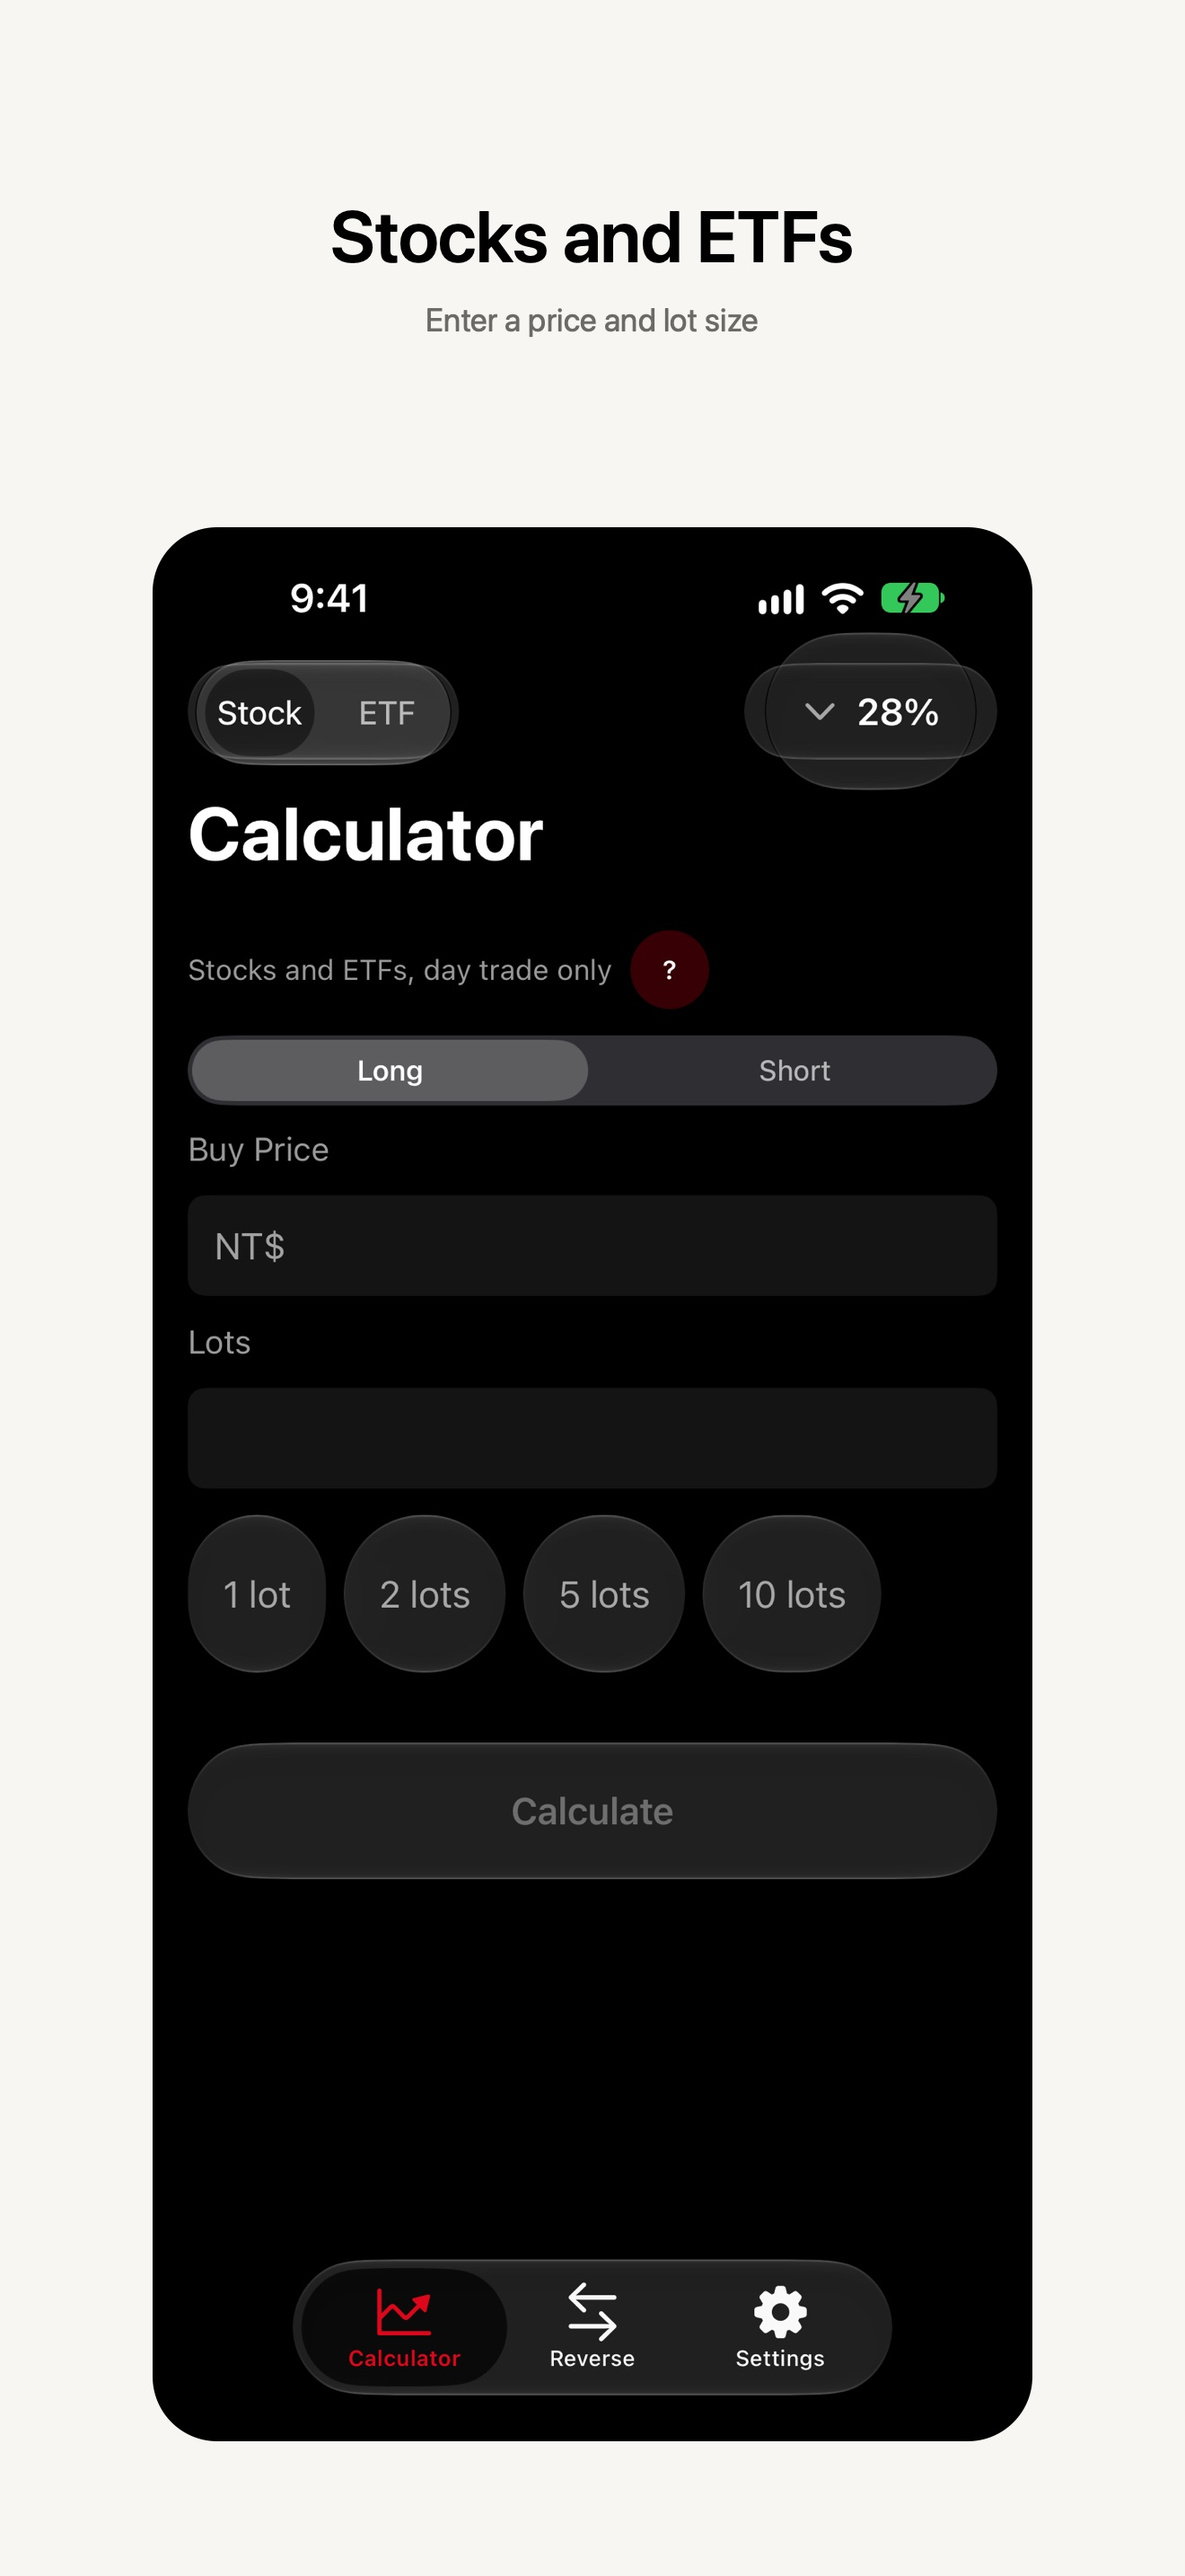
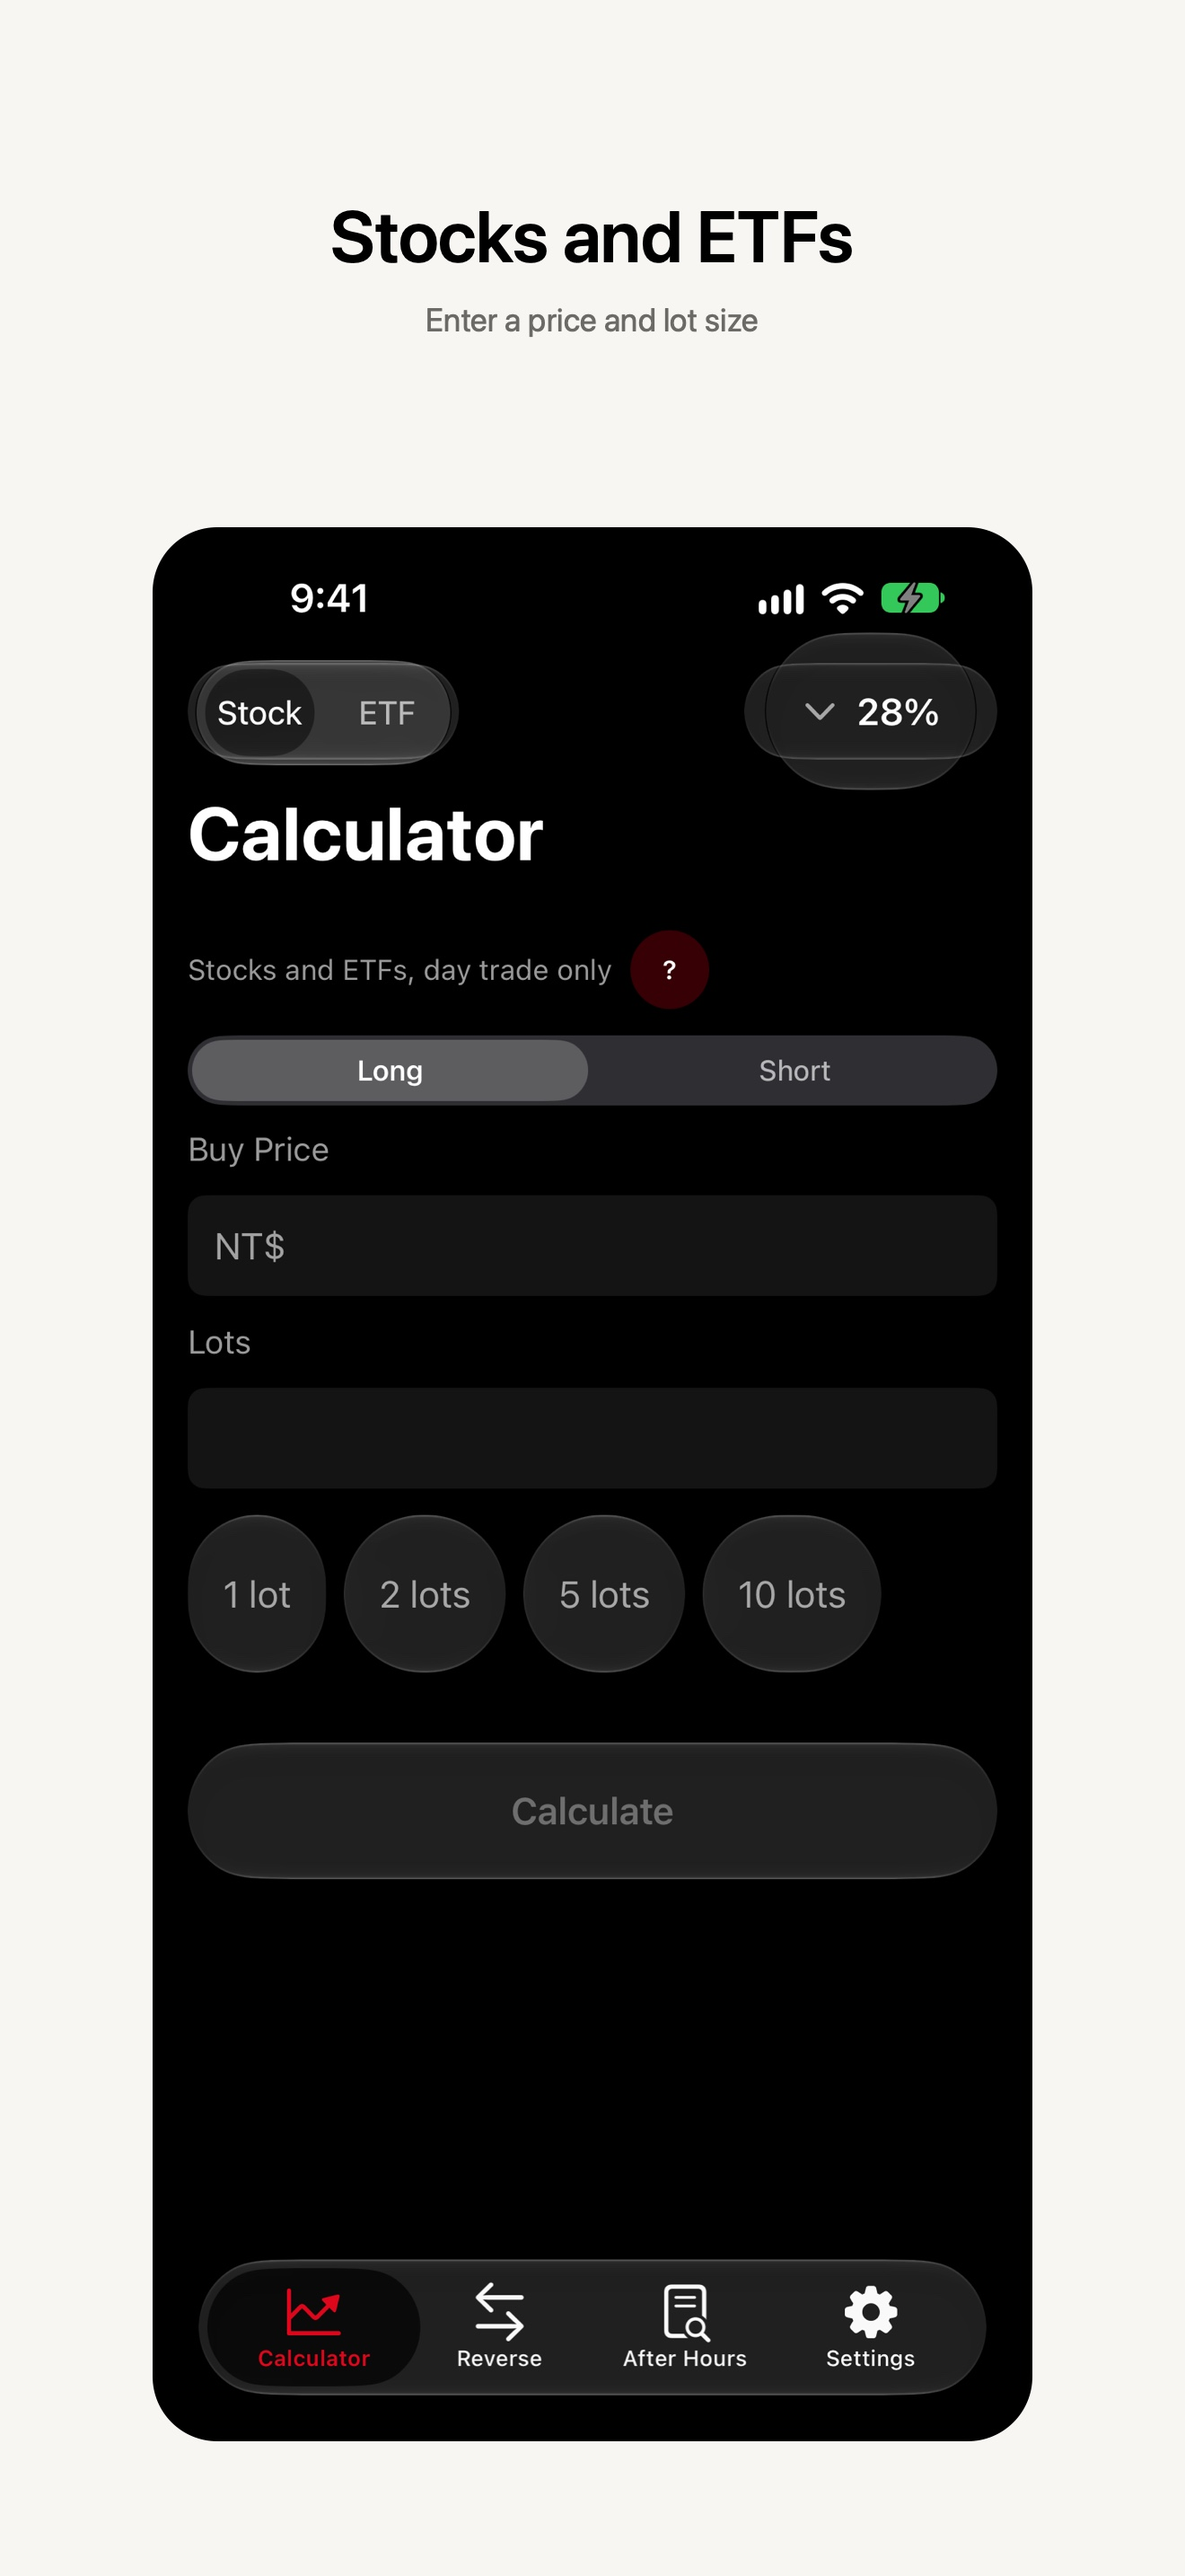
docs: 1.1.0 盤後分頁說明與商店截圖
新增盤後分頁操作說明、資料來源說明與隱私權頁的盤後資料下載段落；
商店截圖換成 1.1.0 的 12 張（每語系 6 張）。

Changed region(s): [[0.1553, 0.8689, 0.8386, 0.931]]

diff --git a/index.html b/index.html
@@ -50,7 +50,7 @@
   </header>
   <main>
     <section id="zh" lang="zh-Hant">
-      <p class="lead">台股現股與 ETF 的當沖試算。輸入買進價和張數，看漲幾檔開始獲利；也可以從券商對帳單反推手續費折數。</p>
+      <p class="lead">台股現股與 ETF 的當沖試算。輸入買進價和張數，看漲幾檔開始獲利；也可以從券商對帳單反推手續費折數，或在「盤後」分頁查市場摘要與個股盤後資料。</p>
       <h2>操作說明</h2>
       <h3>1. 選折數</h3>
       <p>第一次開啟時選一個常用折數。選完就進入試算。之後可從試算頁右上角的折數膠囊更改。</p>
@@ -76,9 +76,23 @@
         <img src="store/zh-04-fee-reverse.jpg" width="402" height="874" alt="從對帳單反推折數">
         <figcaption>抄價金和手續費，反推折數。</figcaption>
       </figure>
+      <h3>4. 看盤後資料</h3>
+      <p>打開「盤後」分頁。上方的市場摘要列出加權指數、櫃買指數的漲跌、漲跌幅與成交金額，兩個市場各自標示資料日。處置股、暫停先賣後買預告預設收合，點標題展開。</p>
+      <p>輸入股票代號或名稱，可看開盤參考價、漲跌停、當沖資格、處置與注意股、除權息預告，以及盤後成交（開高低收、成交量、成交金額）。按「以參考價開始試算」，直接帶入試算頁。</p>
+      <div class="manual-shots-row">
+        <figure class="manual-shot">
+          <img src="store/zh-05-market-summary.jpg" width="402" height="874" alt="盤後市場摘要">
+          <figcaption>加權、櫃買指數與處置股清單。</figcaption>
+        </figure>
+        <figure class="manual-shot">
+          <img src="store/zh-06-symbol-info.jpg" width="402" height="874" alt="個股盤後資料">
+          <figcaption>個股參考價、漲跌停與盤後成交。</figcaption>
+        </figure>
+      </div>
+      <p>資料來自臺灣證券交易所、證券櫃檯買賣中心的盤後公開資料，每個交易日更新一次，僅供參考，請以交易所公告為準。資料來源與授權條款列在「設定 → 資料來源與授權」。</p>
     </section>
     <section id="en" lang="en" hidden>
-      <p class="lead">A day-trade calculator for Taiwan stocks and ETFs. Enter a buy price and lot size to see how many ticks until you profit, or reverse your fee discount from a broker statement.</p>
+      <p class="lead">A day-trade calculator for Taiwan stocks and ETFs. Enter a buy price and lot size to see how many ticks until you profit, reverse your fee discount from a broker statement, or check the market summary and stock data on the After Hours tab.</p>
       <h2>How to use it</h2>
       <h3>1. Pick a discount</h3>
       <p>The first time you open the app, pick a commission discount. You then land on the calculator. Change it later from the capsule at the top right.</p>
@@ -104,6 +118,20 @@
         <img src="store/en-04-fee-reverse.jpg" width="402" height="874" alt="Reverse the fee">
         <figcaption>Copy proceeds and commission to reverse the discount.</figcaption>
       </figure>
+      <h3>4. After-hours data</h3>
+      <p>Open the After Hours tab. The market summary at the top shows TAIEX and TPEx Index change, percentage, and turnover, each with its own data date. Disposition stocks and upcoming sell-first suspensions start collapsed; tap a title to expand it.</p>
+      <p>Search by symbol or name to see the opening reference price, price limits, day-trading eligibility, disposition and attention notices, upcoming ex-rights and ex-dividend dates, and the day's open, high, low, close, volume, and turnover. Tap “Calculate from Reference Price” to start a calculation with that price.</p>
+      <div class="manual-shots-row">
+        <figure class="manual-shot">
+          <img src="store/en-05-market-summary.jpg" width="402" height="874" alt="After-hours market summary">
+          <figcaption>TAIEX, TPEx Index, and disposition stocks.</figcaption>
+        </figure>
+        <figure class="manual-shot">
+          <img src="store/en-06-symbol-info.jpg" width="402" height="874" alt="After-hours stock data">
+          <figcaption>Reference price, price limits, and daily trading.</figcaption>
+        </figure>
+      </div>
+      <p>Data comes from after-hours public data from the Taiwan Stock Exchange and the Taipei Exchange, updated once every trading day. It is for reference only; exchange announcements prevail. Sources and license terms are listed in Settings &gt; Data Sources &amp; License.</p>
     </section>
     <footer>
       <p id="footer-zh">本頁為當沖計算機的介紹與操作說明。問題請寫到 <a href="mailto:mikru168@gmail.com">mikru168@gmail.com</a>，或看<a href="support.html">支援</a>與<a href="privacy.html">隱私權</a>。</p>

diff --git a/privacy.html b/privacy.html
@@ -55,13 +55,15 @@
       <p>買進價、張數、損益、券商折數與對帳單上抄下的價金、手續費，都在您的 iPhone 上計算與保存。這些內容不會上傳到開發者的伺服器。</p>
       <h2>本機設定</h2>
       <p>折數、券商名稱、是否看過引導，存在這支手機的本機設定。刪除 App 會一併清除。</p>
+      <h2>盤後資料下載</h2>
+      <p>「盤後」分頁會連線下載臺灣證券交易所（openapi.twse.com.tw）、證券櫃檯買賣中心（www.tpex.org.tw）公開的盤後資料，並暫存在您的手機。下載時不會傳送您的搜尋內容、試算數字或任何個人資料。</p>
       <h2>當機報告（Firebase Crashlytics）</h2>
       <p>正式版使用 Firebase Crashlytics，只收集<strong>未捕捉的當機</strong>與除錯資訊，用來修穩定性。不會上傳您輸入的價格、股數或對帳單數字。</p>
       <h2>廣告（Google AdMob）</h2>
-      <p>完成引導並算出各檔損益後，表格中的隨機一列可能顯示一則橫幅廣告。App 會先透過 Apple 的 App Tracking Transparency 詢問追蹤許可；若您拒絕，廣告請求將以<strong>非個人化</strong>方式處理。開發與測試版本使用 Google 測試廣告，不會用您的正式廣告識別碼。</p>
+      <p>完成引導後，試算頁的各檔損益表、反推頁的結果下方，以及盤後分頁的內容下方，可能顯示橫幅廣告。App 會先透過 Apple 的 App Tracking Transparency 詢問追蹤許可；若您拒絕，廣告請求將以<strong>非個人化</strong>方式處理。開發與測試版本使用 Google 測試廣告，不會用您的正式廣告識別碼。</p>
       <h2>我們不出售個人資料</h2>
       <p>我們不會出售您的個人資料。</p>
-      <p><em>最後更新：2026-10-24。政策隨 App 功能調整時可能更新，請以本頁最新內容為準。</em></p>
+      <p><em>最後更新：2026-11-26。政策隨 App 功能調整時可能更新，請以本頁最新內容為準。</em></p>
     </section>
     <section id="en" lang="en" hidden>
       <p>This policy describes how TW Day Trade Calc (“the app”) handles information. By using the app, you acknowledge the practices below.</p>
@@ -69,13 +71,15 @@
       <p>Prices, lot size, profit and loss, your fee discount, and the proceeds and commission you copy from a statement are calculated and stored on your iPhone. They are not uploaded to the developer’s servers.</p>
       <h2>On-device settings</h2>
       <p>Your discount, broker name, and whether you finished the intro are stored in on-device settings. Deleting the app removes them.</p>
+      <h2>After-hours data downloads</h2>
+      <p>The After Hours tab downloads public after-hours data from the Taiwan Stock Exchange (openapi.twse.com.tw) and the Taipei Exchange (www.tpex.org.tw) and caches it on your iPhone. Your searches, calculations, and personal information are not sent.</p>
       <h2>Crash reports (Firebase Crashlytics)</h2>
       <p>The production app uses Firebase Crashlytics to collect <strong>uncaught crashes</strong> and debugging information so we can fix stability issues. Prices, share counts, and statement figures you type are not uploaded.</p>
       <h2>Advertising (Google AdMob)</h2>
-      <p>After the intro, once the price ladder is shown, a banner may appear in a random row of that table. The app asks for tracking permission with Apple’s App Tracking Transparency. If you decline, ad requests are <strong>non-personalized</strong>. Development builds use Google’s test ads and do not use your production advertising identifier.</p>
+      <p>After the intro, banners may appear in the price ladder on the calculator, below the result on Reverse, and below the content on the After Hours tab. The app asks for tracking permission with Apple’s App Tracking Transparency. If you decline, ad requests are <strong>non-personalized</strong>. Development builds use Google’s test ads and do not use your production advertising identifier.</p>
       <h2>We do not sell personal data</h2>
       <p>We do not sell your personal information.</p>
-      <p><em>Last updated: 2026-10-24. This policy may change as the app changes. This page is the current version.</em></p>
+      <p><em>Last updated: 2026-11-26. This policy may change as the app changes. This page is the current version.</em></p>
     </section>
     <footer>
       <p id="footer-zh">當沖計算機 — 隱私權政策</p>

diff --git a/support.html b/support.html
@@ -66,6 +66,16 @@
         <li>價金小的交易常對到好幾個折數。按「再加一筆交易」，輸入同一個券商帳戶的另一筆，折數取每一筆都吻合的那一個。</li>
         <li>確定後按「將手續費設為 N 折」。確認後會變成你的折數。</li>
       </ol>
+      <h2>怎麼看盤後資料</h2>
+      <ol>
+        <li>打開「盤後」分頁。上方的市場摘要列出加權指數、櫃買指數的漲跌、漲跌幅與成交金額；兩個市場的資料日可能不同，各自標示。</li>
+        <li>處置股、暫停先賣後買預告預設收合，標題後面是筆數。點標題展開或收合。</li>
+        <li>在搜尋框輸入代號或名稱，點結果列，看參考價、漲跌停、當沖資格、處置與注意股、除權息預告，以及盤後成交。</li>
+        <li>按「以參考價開始試算」，參考價會帶入試算頁。試算目前只支援股票與 ETF。</li>
+        <li>盤後分頁需要網路下載資料，每個交易日更新一次。顯示「暫時無法取得盤後資料」時，確認網路後按「重試」。試算與反推不需要網路。</li>
+      </ol>
+      <h2>資料來源</h2>
+      <p>盤後分頁的資料來自臺灣證券交易所、證券櫃檯買賣中心的盤後公開資料，依政府資料開放授權條款使用，僅供參考，請以交易所公告為準。完整的資料集名稱、授權條款與免責聲明在 App 的「設定 → 資料來源與授權」。</p>
       <h2>折數和稅</h2>
       <p>折數只看價金和手續費，與現股、當沖、ETF 的證交稅無關。買賣彙總若列出證交稅，沿用試算頁目前的股票或 ETF 當沖稅率，可能和對帳單上的稅不同。</p>
       <h2>聯絡我們</h2>
@@ -90,6 +100,16 @@
         <li>Small trades often match several discounts. Tap “Add another trade” and enter another trade from the same broker account. The discount must match every trade.</li>
         <li>When the discount is settled, tap “Set fee to …”. After you confirm, it becomes your discount.</li>
       </ol>
+      <h2>After-hours data</h2>
+      <ol>
+        <li>Open the After Hours tab. The market summary at the top shows TAIEX and TPEx Index change, percentage, and turnover. The two markets may have different data dates, so each shows its own.</li>
+        <li>Disposition stocks and upcoming sell-first suspensions start collapsed, with the count after each title. Tap a title to expand or collapse it.</li>
+        <li>Search by symbol or name and tap a result to see the reference price, price limits, day-trading eligibility, disposition and attention notices, upcoming ex-rights and ex-dividend dates, and daily trading.</li>
+        <li>Tap “Calculate from Reference Price” to fill the calculator with that price. The calculator supports stocks and ETFs only.</li>
+        <li>The After Hours tab needs a connection to download data, which is updated once every trading day. If you see that after-hours data is unavailable, check your connection and tap Retry. The calculator and Reverse work without a connection.</li>
+      </ol>
+      <h2>Data sources</h2>
+      <p>After-hours data comes from public data published by the Taiwan Stock Exchange and the Taipei Exchange under the Open Government Data License. It is for reference only; exchange announcements prevail. The full dataset list, license terms, and disclaimers are in the app under Settings &gt; Data Sources &amp; License.</p>
       <h2>Discount and tax</h2>
       <p>The discount uses proceeds and commission only. It does not depend on regular, day-trade, or ETF tax. If the combined view shows transaction tax, it follows the calculator’s current stock or ETF day-trade rate, which may differ from the statement.</p>
       <h2>Contact us</h2>
